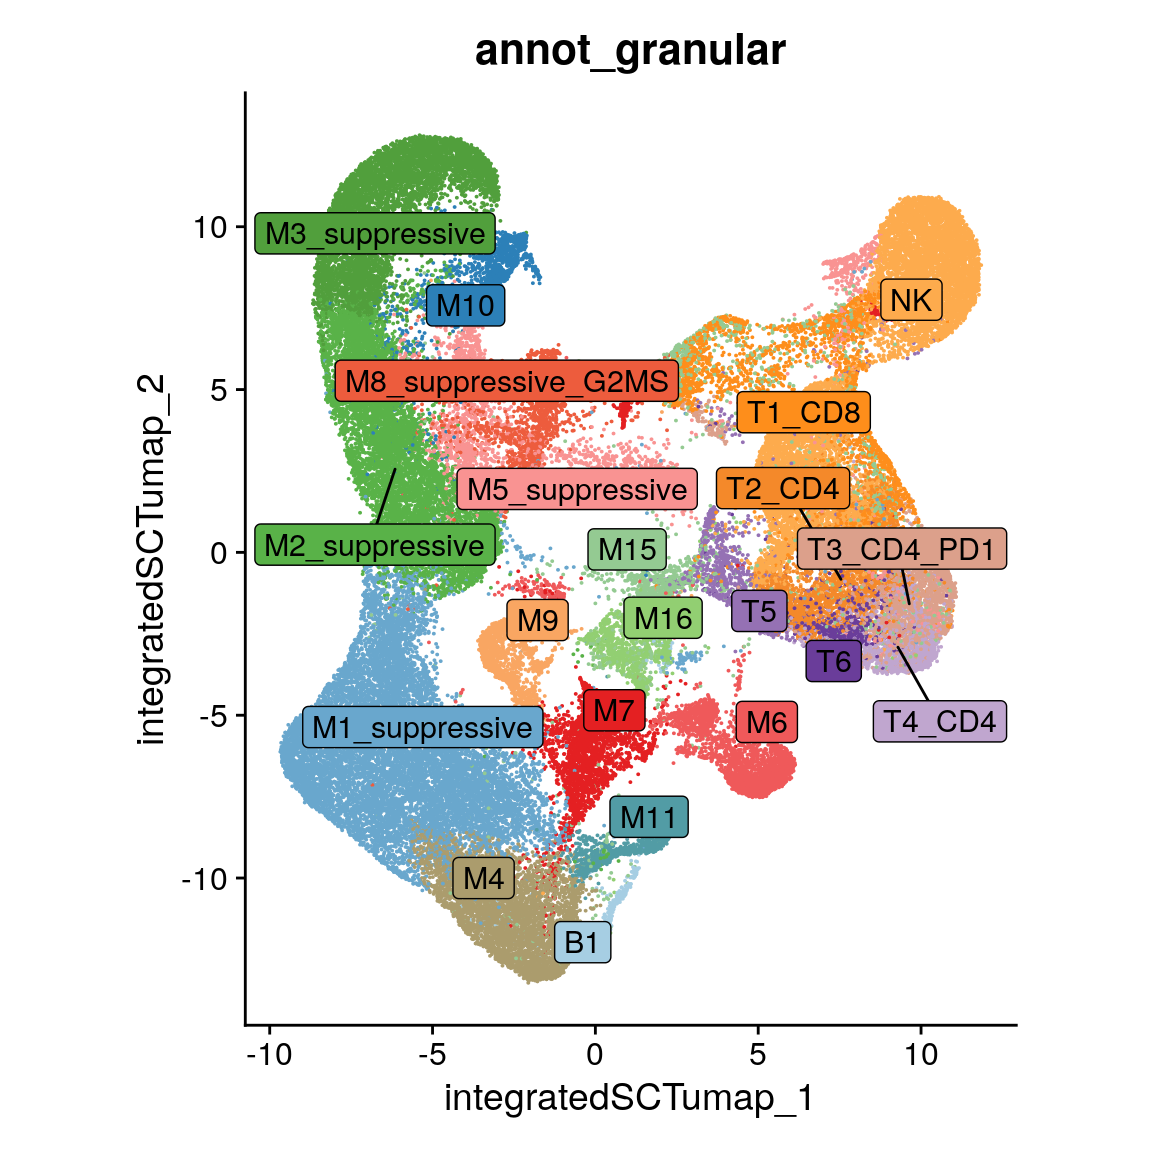
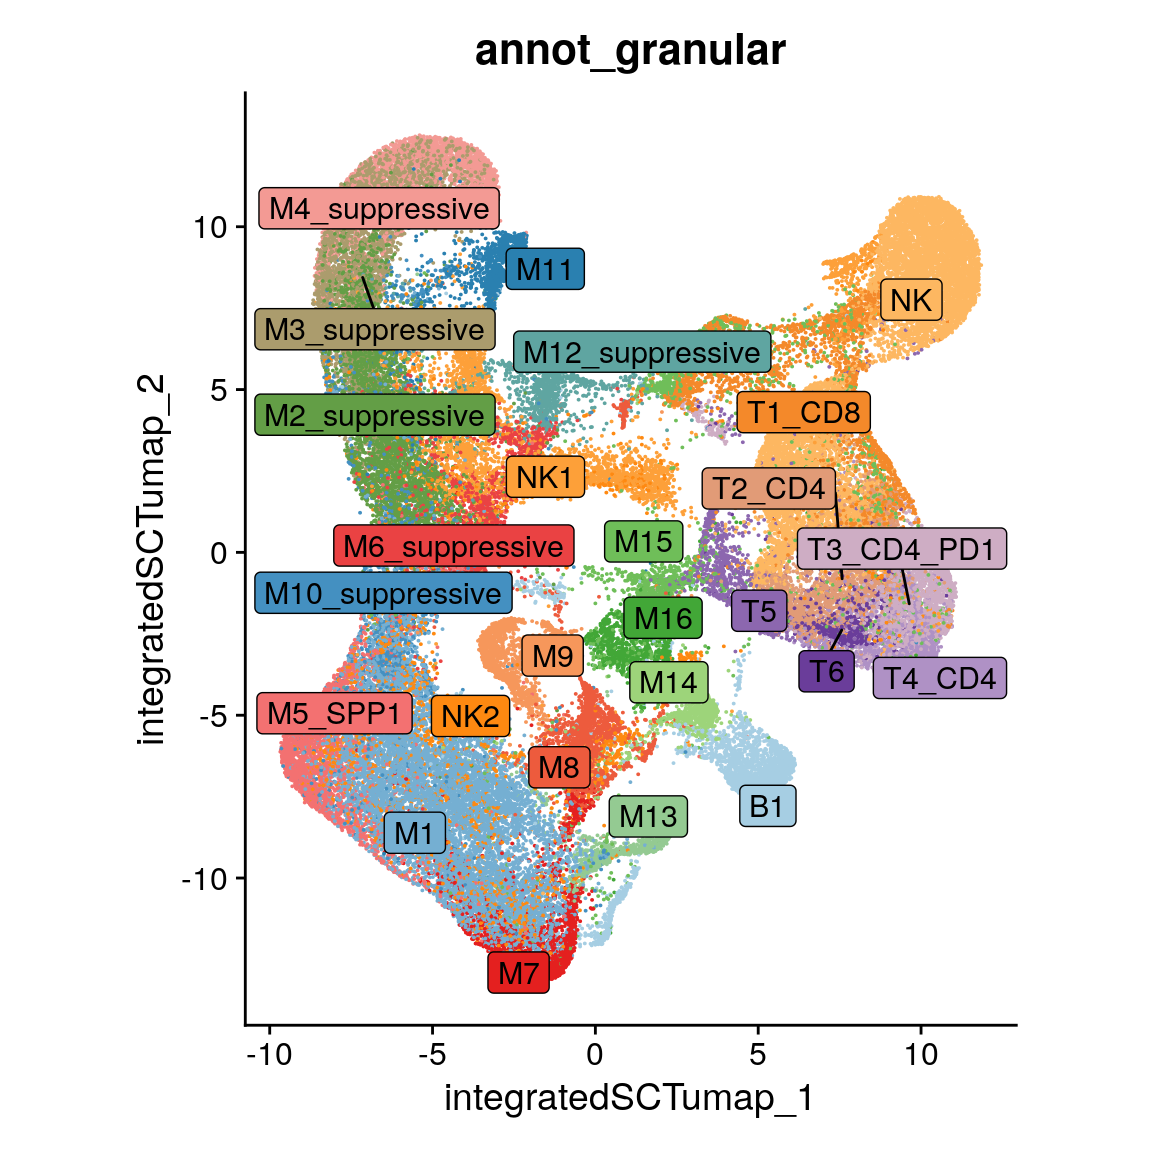
updated the comparative analysis

Changed region(s): [[0.2188, 0.0938, 0.875, 0.875]]

diff --git a/docs/comparative_analysis.html b/docs/comparative_analysis.html
@@ -395,7 +395,7 @@ aria-hidden="true"></span> </a>
 <div class="tab-content">
 <div id="summary" class="tab-pane fade in active">
 <p>
-<strong>Last updated:</strong> 2025-09-05
+<strong>Last updated:</strong> 2025-09-06
 </p>
 <p>
 <strong>Checks:</strong> <span
@@ -571,15 +571,15 @@ code/colors_themes.R
 <div class="panel panel-default">
 <div class="panel-heading">
 <p class="panel-title">
-<a data-toggle="collapse" data-parent="#workflowr-checks" href="#strongRepositoryversionstrongahrefhttpsgithubcomheininSPP1mousescRNAseqtree593cd45c249bb5c654b538a0290316cecdc86c47targetblank593cd45a">
+<a data-toggle="collapse" data-parent="#workflowr-checks" href="#strongRepositoryversionstrongahrefhttpsgithubcomheininSPP1mousescRNAseqtreeb367bb408a1980aa233d696ba97f31643bda6824targetblankb367bb4a">
 <span class="glyphicon glyphicon-ok text-success"
 aria-hidden="true"></span> <strong>Repository version:</strong>
-<a href="https://github.com/heinin/SPP1_mouse_scRNAseq/tree/593cd45c249bb5c654b538a0290316cecdc86c47" target="_blank">593cd45</a>
+<a href="https://github.com/heinin/SPP1_mouse_scRNAseq/tree/b367bb408a1980aa233d696ba97f31643bda6824" target="_blank">b367bb4</a>
 </a>
 </p>
 </div>
 <div
[2 lines of base64/hex data omitted]
 class="panel-collapse collapse">
 <div class="panel-body">
 <p>
@@ -589,7 +589,7 @@ reproducibility.
 </p>
 <p>
 The results in this page were generated with repository version
-<a href="https://github.com/heinin/SPP1_mouse_scRNAseq/tree/593cd45c249bb5c654b538a0290316cecdc86c47" target="_blank">593cd45</a>.
+<a href="https://github.com/heinin/SPP1_mouse_scRNAseq/tree/b367bb408a1980aa233d696ba97f31643bda6824" target="_blank">b367bb4</a>.
 See the <em>Past versions</em> tab to see a history of the changes made
 to the R Markdown and HTML files.
 </p>
@@ -605,10 +605,11 @@ were generated:
 <pre><code>
 Ignored files:
     Ignored:    .RData
+    Ignored:    analysis/figure/
 
 Unstaged changes:
-    Modified:   analysis/CellChat.Rmd
     Modified:   analysis/comparative_analysis.Rmd
+    Modified:   code/save_top_markers.R
 
 </code></pre>
 <p>
@@ -654,6 +655,40 @@ Message
 </tr>
 </thead>
 <tbody>
+<tr>
+<td>
+Rmd
+</td>
+<td>
+<a href="https://github.com/heinin/SPP1_mouse_scRNAseq/blob/b367bb408a1980aa233d696ba97f31643bda6824/analysis/comparative_analysis.Rmd" target="_blank">b367bb4</a>
+</td>
+<td>
+heinin
+</td>
+<td>
+2025-09-07
+</td>
+<td>
+Fixed cell type annotations
+</td>
+</tr>
+<tr>
+<td>
+html
+</td>
+<td>
+<a href="https://rawcdn.githack.com/heinin/SPP1_mouse_scRNAseq/b367bb408a1980aa233d696ba97f31643bda6824/docs/comparative_analysis.html" target="_blank">b367bb4</a>
+</td>
+<td>
+heinin
+</td>
+<td>
+2025-09-07
+</td>
+<td>
+Fixed cell type annotations
+</td>
+</tr>
 <tr>
 <td>
 Rmd
@@ -757,7 +792,7 @@ source(&quot;/home/hnatri/SPP1_mouse_scRNAseq/code/colors_themes.R&quot;)
 <h2>Import data</h2>
 <p>Annotations were updated after subclustering and annotating myeloid
 and lymphoid cells.</p>
-<pre class="r"><code>seurat_data &lt;- readRDS(&quot;/tgen_labs/banovich/BCTCSF/SPP1_mouse_scRNAseq/scRNAseq_Seurat_dim8_annotated.rds&quot;)
+<pre class="r"><code>seurat_data &lt;- readRDS(&quot;/tgen_labs/banovich/BCTCSF/SPP1_mouse_scRNAseq/scRNAseq_Seurat_dim8_granular_annot.rds&quot;)
 
 # Updating annotations
 #seurat_data$annot &lt;- mapvalues(x = seurat_data$sub.cluster,
@@ -803,6 +838,17 @@ Date
 </tr>
 </thead>
 <tbody>
+<tr>
+<td>
+<a href="https://github.com/heinin/SPP1_mouse_scRNAseq/blob/b367bb408a1980aa233d696ba97f31643bda6824/docs/figure/comparative_analysis.Rmd/unnamed-chunk-2-1.png" target="_blank">b367bb4</a>
+</td>
+<td>
+heinin
+</td>
+<td>
+2025-09-07
+</td>
+</tr>
 <tr>
 <td>
 <a href="https://github.com/heinin/SPP1_mouse_scRNAseq/blob/25a16f18cead2b5c48e714bd13f31527e39941db/docs/figure/comparative_analysis.Rmd/unnamed-chunk-2-1.png" target="_blank">25a16f1</a>
@@ -871,6 +917,17 @@ Date
 <tbody>
 <tr>
 <td>
+<a href="https://github.com/heinin/SPP1_mouse_scRNAseq/blob/b367bb408a1980aa233d696ba97f31643bda6824/docs/figure/comparative_analysis.Rmd/unnamed-chunk-2-2.png" target="_blank">b367bb4</a>
+</td>
+<td>
+heinin
+</td>
+<td>
+2025-09-07
+</td>
+</tr>
+<tr>
+<td>
 <a href="https://github.com/heinin/SPP1_mouse_scRNAseq/blob/f226445e521c3a2d635a15304bbec468db037943/docs/figure/comparative_analysis.Rmd/unnamed-chunk-2-2.png" target="_blank">f226445</a>
 </td>
 <td>
@@ -917,6 +974,17 @@ Date
 </tr>
 </thead>
 <tbody>
+<tr>
+<td>
+<a href="https://github.com/heinin/SPP1_mouse_scRNAseq/blob/b367bb408a1980aa233d696ba97f31643bda6824/docs/figure/comparative_analysis.Rmd/unnamed-chunk-3-1.png" target="_blank">b367bb4</a>
+</td>
+<td>
+heinin
+</td>
+<td>
+2025-09-07
+</td>
+</tr>
 <tr>
 <td>
 <a href="https://github.com/heinin/SPP1_mouse_scRNAseq/blob/25a16f18cead2b5c48e714bd13f31527e39941db/docs/figure/comparative_analysis.Rmd/unnamed-chunk-3-1.png" target="_blank">25a16f1</a>
@@ -977,6 +1045,17 @@ Date
 </tr>
 </thead>
 <tbody>
+<tr>
+<td>
+<a href="https://github.com/heinin/SPP1_mouse_scRNAseq/blob/b367bb408a1980aa233d696ba97f31643bda6824/docs/figure/comparative_analysis.Rmd/unnamed-chunk-4-1.png" target="_blank">b367bb4</a>
+</td>
+<td>
+heinin
+</td>
+<td>
+2025-09-07
+</td>
+</tr>
 <tr>
 <td>
 <a href="https://github.com/heinin/SPP1_mouse_scRNAseq/blob/25a16f18cead2b5c48e714bd13f31527e39941db/docs/figure/comparative_analysis.Rmd/unnamed-chunk-4-1.png" target="_blank">25a16f1</a>
@@ -1043,6 +1122,17 @@ Date
 <tbody>
 <tr>
 <td>
+<a href="https://github.com/heinin/SPP1_mouse_scRNAseq/blob/b367bb408a1980aa233d696ba97f31643bda6824/docs/figure/comparative_analysis.Rmd/unnamed-chunk-5-1.png" target="_blank">b367bb4</a>
+</td>
+<td>
+heinin
+</td>
+<td>
+2025-09-07
+</td>
+</tr>
+<tr>
+<td>
 <a href="https://github.com/heinin/SPP1_mouse_scRNAseq/blob/25a16f18cead2b5c48e714bd13f31527e39941db/docs/figure/comparative_analysis.Rmd/unnamed-chunk-5-1.png" target="_blank">25a16f1</a>
 </td>
 <td>
@@ -1088,6 +1178,17 @@ Date
 </tr>
 </thead>
 <tbody>
+<tr>
+<td>
+<a href="https://github.com/heinin/SPP1_mouse_scRNAseq/blob/b367bb408a1980aa233d696ba97f31643bda6824/docs/figure/comparative_analysis.Rmd/unnamed-chunk-5-2.png" target="_blank">b367bb4</a>
+</td>
+<td>
+heinin
+</td>
+<td>
+2025-09-07
+</td>
+</tr>
 <tr>
 <td>
 <a href="https://github.com/heinin/SPP1_mouse_scRNAseq/blob/25a16f18cead2b5c48e714bd13f31527e39941db/docs/figure/comparative_analysis.Rmd/unnamed-chunk-5-2.png" target="_blank">25a16f1</a>
@@ -1137,6 +1238,17 @@ Date
 <tbody>
 <tr>
 <td>
+<a href="https://github.com/heinin/SPP1_mouse_scRNAseq/blob/b367bb408a1980aa233d696ba97f31643bda6824/docs/figure/comparative_analysis.Rmd/unnamed-chunk-5-3.png" target="_blank">b367bb4</a>
+</td>
+<td>
+heinin
+</td>
+<td>
+2025-09-07
+</td>
+</tr>
+<tr>
+<td>
 <a href="https://github.com/heinin/SPP1_mouse_scRNAseq/blob/25a16f18cead2b5c48e714bd13f31527e39941db/docs/figure/comparative_analysis.Rmd/unnamed-chunk-5-3.png" target="_blank">25a16f1</a>
 </td>
 <td>
@@ -1184,6 +1296,17 @@ Date
 <tbody>
 <tr>
 <td>
+<a href="https://github.com/heinin/SPP1_mouse_scRNAseq/blob/b367bb408a1980aa233d696ba97f31643bda6824/docs/figure/comparative_analysis.Rmd/unnamed-chunk-5-4.png" target="_blank">b367bb4</a>
+</td>
+<td>
+heinin
+</td>
+<td>
+2025-09-07
+</td>
+</tr>
+<tr>
+<td>
 <a href="https://github.com/heinin/SPP1_mouse_scRNAseq/blob/25a16f18cead2b5c48e714bd13f31527e39941db/docs/figure/comparative_analysis.Rmd/unnamed-chunk-5-4.png" target="_blank">25a16f1</a>
 </td>
 <td>
@@ -1229,6 +1352,17 @@ Date
 </tr>
 </thead>
 <tbody>
+<tr>
+<td>
+<a href="https://github.com/heinin/SPP1_mouse_scRNAseq/blob/b367bb408a1980aa233d696ba97f31643bda6824/docs/figure/comparative_analysis.Rmd/unnamed-chunk-5-5.png" target="_blank">b367bb4</a>
+</td>
+<td>
+heinin
+</td>
+<td>
+2025-09-07
+</td>
+</tr>
 <tr>
 <td>
 <a href="https://github.com/heinin/SPP1_mouse_scRNAseq/blob/25a16f18cead2b5c48e714bd13f31527e39941db/docs/figure/comparative_analysis.Rmd/unnamed-chunk-5-5.png" target="_blank">25a16f1</a>
